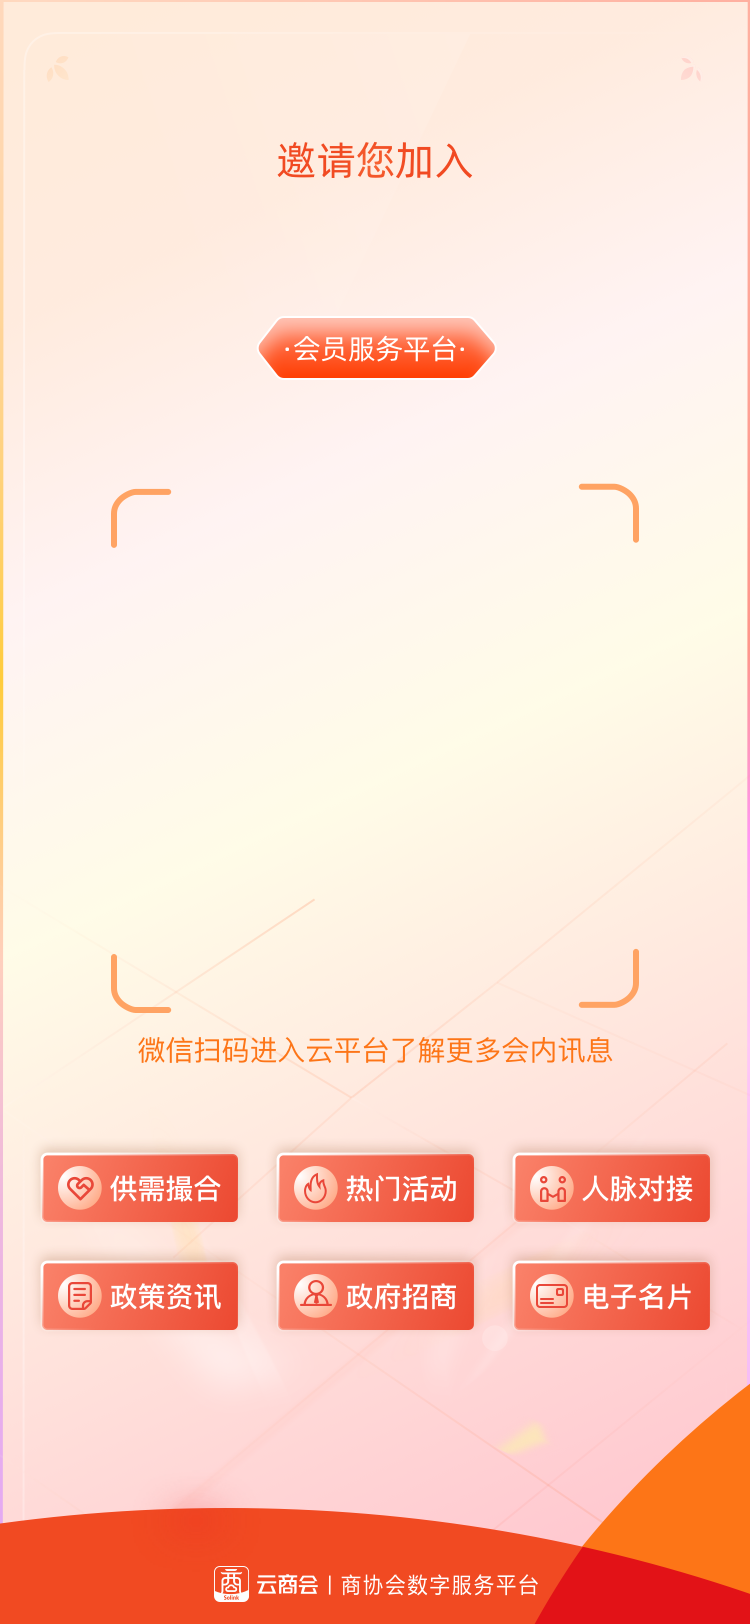
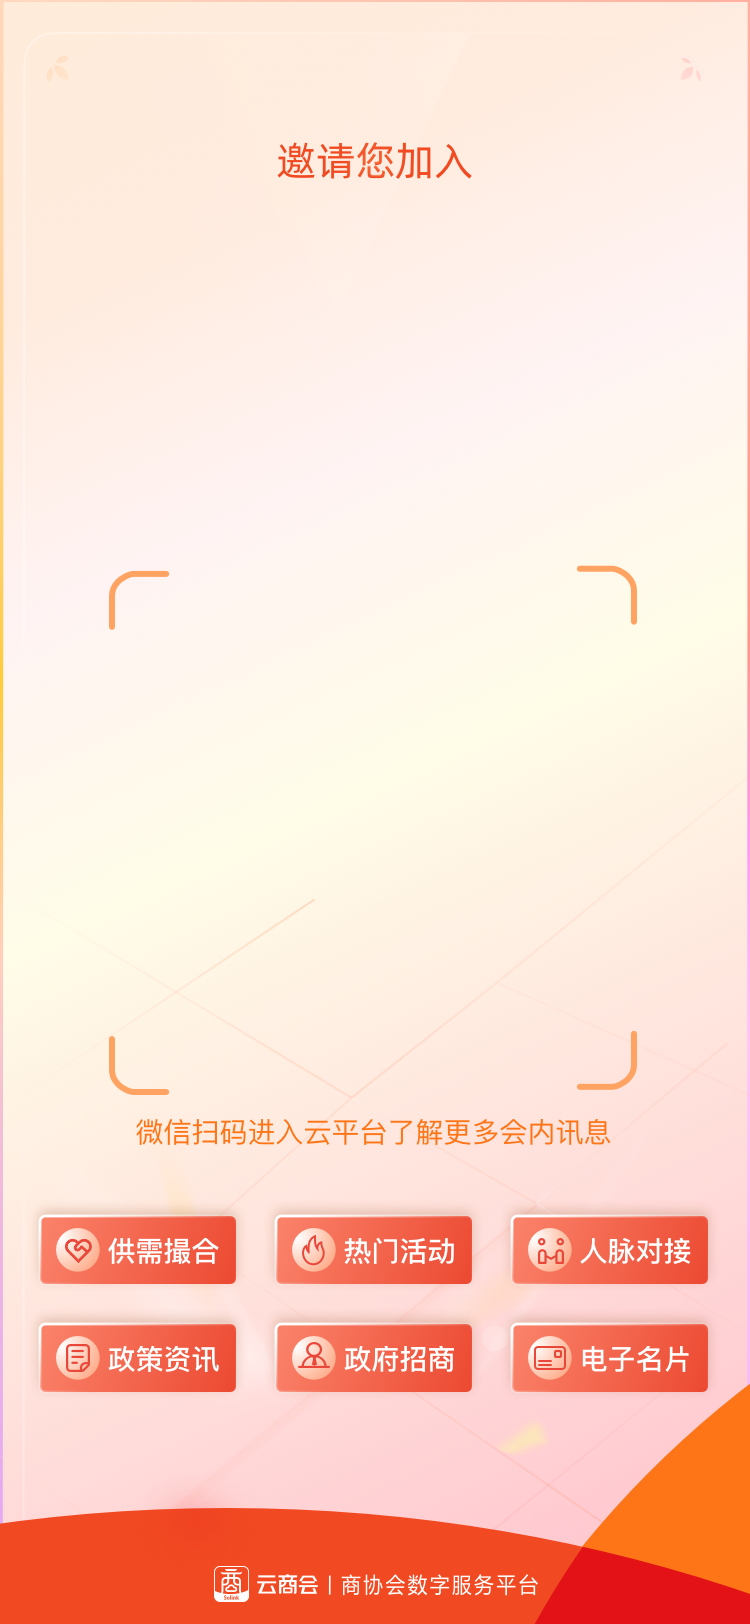
fix:海报ui更改

diff --git a/src/views/system/join/member/index.vue b/src/views/system/join/member/index.vue
@@ -1,5 +1,5 @@
 <template>
-  <div class="qrcode-wrap ">
+  <div class="qrcode-wrap">
     <div class="flex-x">
       <div class="qrcode-content">
         <h2>二维码：</h2>
@@ -7,6 +7,7 @@
           <img class="poster-logo" :src="chamberInfo.chamberLogo" alt="">
           <div class="poster-header">
             <div class="poster-chamber">{{ chamberInfo.chamberName }}</div>
+            <img class="poster-label" src="../../../../../public/img/chamber_label.png" alt="">
           </div>
           <img class="poster-qrcode" :src="chamberInfo.qrCode" alt="">
         </div>
@@ -22,7 +23,7 @@
         <div class="link-wrap">
           <span style="line-height: 40px">链接1</span>
           <div style="margin: 0 10px">
-            <el-input ref="link1Ref" v-model="chamberInfo.pathUrl" style="width: 400px;" />
+            <el-input ref="link1Ref" v-model="chamberInfo.pathUrl" style="width: 400px" />
             <div style="margin-top: 10px">用于接入公众号或小程序路径</div>
           </div>
           <el-button @click="copy(1)">复制</el-button>
@@ -31,7 +32,7 @@
         <div class="link-wrap mt-20">
           <span style="line-height: 40px">链接2</span>
           <div style="margin: 0 10px">
-            <el-input ref="link2Ref" v-model="chamberInfo.promoteUrl" style="width: 400px;" />
+            <el-input ref="link2Ref" v-model="chamberInfo.promoteUrl" style="width: 400px" />
             <div style="margin-top: 10px">用于PC网站等推广</div>
           </div>
           <el-button @click="copy(2)">复制</el-button>
@@ -68,7 +69,6 @@ export default {
   },
 
   methods: {
-
     async getQRCode() {
       this.chamberInfo = {}
 
@@ -121,7 +121,8 @@ export default {
         const rect = shareContent.getBoundingClientRect() // 获取元素相对于视口的
         context.translate(-rect.left, -rect.top)
         const scrollTop = document.documentElement.scrollTop || document.body.scrollTop // 获取滚动轴滚动的长度
-        const _canvas = await html2canvas(shareContent, { // 转换为图片
+        const _canvas = await html2canvas(shareContent, {
+          // 转换为图片
           scrollY: -scrollTop,
           scrollX: 0,
           useCORS: true // 开启跨域
@@ -149,24 +150,36 @@ export default {
 
     .poster-header {
       position: absolute;
-      width: 100%;
+      left: 50%;
+      transform: translate(-50%, 0);
+      margin: 0 auto;
+      width: 80%;
       top: 100px;
       text-align: center;
 
       .poster-chamber {
+        display: -webkit-box;
+        overflow: hidden;
+        text-overflow: ellipsis;
+        word-wrap: break-word;
+        white-space: normal !important;
+        -webkit-line-clamp: 2; /*  行数*/
+        -webkit-box-orient: vertical;
         font-size: 36px;
         font-weight: 600;
-        color: #F14A22;
+        color: #f14a22;
         line-height: 50px;
-        text-shadow: 0 2px 4px rgba(241,74,34,0.46), 0 2px 4px rgba(255,182,182,0.5);
+        text-shadow: 0 2px 4px rgba(241, 74, 34, 0.46), 0 2px 4px rgba(255, 182, 182, 0.5);
       }
     }
-
+    .poster-label{
+      margin-top: 11px;
+    }
     .poster-qrcode {
       position: absolute;
       width: 230px;
       height: 230px;
-      top: 260px;
+      top: 300px;
       left: 50%;
       transform: translate(-50%);
       border-radius: 9px;
@@ -176,7 +189,7 @@ export default {
       position: absolute;
       width: 104px;
       height: 104px;
-      top: 323px;
+      top: 363px;
       left: 50%;
       transform: translate(-50%);
       border-radius: 50%;
@@ -203,5 +216,4 @@ export default {
     }
   }
 }
-
 </style>
